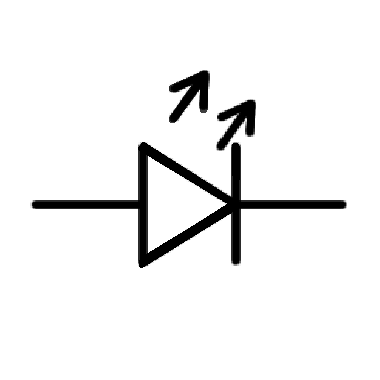
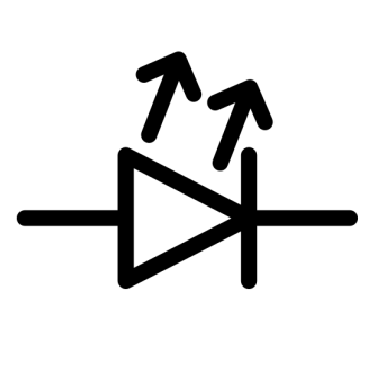
fotos

Changed region(s): [[0.0289, 0.1158, 0.9553, 0.7816]]

diff --git a/abas/Componentes/Componentes.html b/abas/Componentes/Componentes.html
@@ -52,7 +52,7 @@
 
                     <div class="division">
                         <button class="texto" id="diodo_Button" onclick="changePage()">Diodo</button>
-                        <h1 class="imagens"><img src="img/Imagens_Componentes/Diodo_Simbolo.png" alt=""></h1>
+                        <h1 class="imagens"><img src="img/Imagens_Componentes/diodo.png" alt=""></h1>
                         <video src="/videos/Shawn Mendes - Why Why Why (Official Music Video).mp4" controls class="video"></video>
                     </div>
                     
@@ -89,49 +89,57 @@
 
                     <div class="division">
                         <button class="texto" id="portaslogicas_Button" onclick="changePage()">Portas Lógicas</button>
-                        
+                        <h1 class="imagens"><img src="img/Imagens_Componentes/portas-logicas.png" alt=""></h1>
+
                         <video src="/videos/Shawn Mendes - Why Why Why (Official Music Video).mp4" controls class="video"></video>
                     </div>
 
                     <div class="division">
                         <button class="texto" id="zener_Button" onclick="changePage()">Diodo Zener</button>
-                        
+                        <h1 class="imagens"><img src="img/Imagens_Componentes/diodo-zener.png" alt=""></h1>
+
                         <video src="/videos/Shawn Mendes - Why Why Why (Official Music Video).mp4" controls class="video"></video>
                     </div>
 
                     <div class="division">
                         <button class="texto" id="PTC_Button" onclick="changePage()">PTC</button>
-                        
+                        <h1 class="imagens"><img src="img/Imagens_Componentes/PTC.png" alt=""></h1>
+
                         <video src="/videos/Shawn Mendes - Why Why Why (Official Music Video).mp4" controls class="video"></video>
                     </div>
 
                     <div class="division">
                         <button class="texto" id="NTC_Button" onclick="changePage()">NTC</button>
-                        
+                        <h1 class="imagens"><img src="img/Imagens_Componentes/NTC.png" alt=""></h1>
+
                         <video src="/videos/Shawn Mendes - Why Why Why (Official Music Video).mp4" controls class="video"></video>
                     </div>
 
                     <div class="division">
                         <button class="texto" id="LDR_Button" onclick="changePage()">LDR</button>
-                        
+                        <h1 class="imagens"><img src="img/Imagens_Componentes/LDR.png" alt=""></h1>
+
                         <video src="/videos/Shawn Mendes - Why Why Why (Official Music Video).mp4" controls class="video"></video>
                     </div>
 
                     <div class="division">
                         <button class="texto" id="TransistorTBJ" onclick="changePage()">Transistor TBJ</button>
-                        
+                        <h1 class="imagens"><img src="img/Imagens_Componentes/transistor.png" alt=""></h1>
+
                         <video src="/videos/Shawn Mendes - Why Why Why (Official Music Video).mp4" controls class="video"></video>
                     </div>
 
                     <div class="division">
                         <button class="texto" id="circuitosintegrados_Button" onclick="changePage()">Circuitos Integrados</button>
-                        
+                        <h1 class="imagens"><img src="img/Imagens_Componentes/CI.png" alt=""></h1>
+
                         <video src="/videos/Shawn Mendes - Why Why Why (Official Music Video).mp4" controls class="video"></video>
                     </div>
 
                     <div class="division">
                         <button class="texto" id="capacitor_Button" onclick="changePage()">Capacitor</button>
-                        
+                        <h1 class="imagens"><img src="img/Imagens_Componentes/capacitor.png" alt=""></h1>
+
                         <video src="/videos/Shawn Mendes - Why Why Why (Official Music Video).mp4" controls class="video"></video>
                     </div>
                 </section>
@@ -142,31 +150,36 @@
 
                     <div class="division">
                         <button class="texto" id="Relé" onclick="changePage()">Relé</button>
-                        
+                        <h1 class="imagens"><img src="img/Imagens_Componentes/rele.png" alt=""></h1>
+
                         <video src="/videos/Shawn Mendes - Why Why Why (Official Music Video).mp4" controls class="video"></video>
                     </div>
 
                     <div class="division">
                         <button class="texto" id="indutor_Button" onclick="changePage()">Indutor</button>
-                        
+                        <h1 class="imagens"><img src="img/Imagens_Componentes/indutor.png" alt=""></h1>
+
                         <video src="/videos/Shawn Mendes - Why Why Why (Official Music Video).mp4" controls class="video"></video>
                     </div>
                     
                     <div class="division">
                         <button class="texto" id="transformador_Button" onclick="changePage()">Transformador</button>
-                        
+                        <h1 class="imagens"><img src="img/Imagens_Componentes/transformador.png" alt=""></h1>
+
                         <video src="/videos/Shawn Mendes - Why Why Why (Official Music Video).mp4" controls class="video"></video>
                     </div>
 
                     <div class="division">
                         <button class="texto" id="Motores_Button" onclick="changePage()">Motores</button>
-                        
+                        <h1 class="imagens"><img src="img/Imagens_Componentes/motor.png" alt=""></h1>
+
                         <video src="/videos/Shawn Mendes - Why Why Why (Official Music Video).mp4" controls class="video"></video>
                     </div>
 
                     <div class="division">
                         <button class="texto" id="ampop_Button" onclick="changePage()">Amplificador Operacional</button>
-                        
+                        <h1 class="imagens"><img src="img/Imagens_Componentes/ampop.png" alt=""></h1>
+
                         <video src="/videos/Shawn Mendes - Why Why Why (Official Music Video).mp4" controls class="video"></video>
                     </div>
                 </section>

diff --git a/abas/Equipamentos/Equipamentos.html b/abas/Equipamentos/Equipamentos.html
@@ -27,19 +27,22 @@
                 <section class="categorias">
                     <div class="division">
                         <button class="texto" id="chaves_Button" onclick="changePage()">Chaves Phillips <br>e Fenda</button>
-                        
+                        <h1 class="imagens"><img src="img/Imagens_Equipamentos/Chaves.png" alt=""></h1>
+
                         <video src="videos/Shawn Mendes - Why Why Why (Official Music Video).mp4" controls class="video"></video>
 
                     </div>
 
                     <div class="division">
                         <button class="texto" id="alicates_Button" onclick="changePage()">Alicates de Bico <br> e de Corte</button>
+                        <h1 class="imagens"><img src="img/Imagens_Equipamentos/Alicates.png" alt=""></h1>
 
                         <video src="videos/Shawn Mendes - Why Why Why (Official Music Video).mp4" controls class="video"></video>
                     </div>
                     
                     <div class="division">
                         <button class="texto" id="pinca_Button" onclick="changePage()">Pinça</button>
+                        <h1 class="imagens"><img src="img/Imagens_Equipamentos/pincas.png" alt=""></h1>
 
                         <video src="videos/Shawn Mendes - Why Why Why (Official Music Video).mp4" controls class="video"></video>
 

diff --git a/abas/Componentes/Componentes.css b/abas/Componentes/Componentes.css
@@ -181,10 +181,8 @@ body,
     text-align: center; /* Alinha o texto ao centro dentro do elemento */
     font-size: 3em; /* Ajuste o tamanho da fonte conforme necessário */
     font-weight: bold;
-    margin: 10%;
     background-color: white;
     border-radius: 45px;
-    padding-top: 0.35%;
 }
 
 .basicos{
@@ -240,15 +238,9 @@ body,
     height: 50%;
     justify-content: space-evenly; /* Distribui o vídeo e o texto */
     align-items: center; /* Alinha verticalmente */
-    margin-bottom: 2%;
 
 }
 
-.division_size{
-    width: 70vw;
-    min-width: 70vw;
-    padding: 50em;
-}
 
 .page{
     display: none;

diff --git a/abas/Equipamentos/Equipamentos.css b/abas/Equipamentos/Equipamentos.css
@@ -156,3 +156,7 @@ body,
 .page.active{
     display: block;
 }
+
+.imagens{
+    transform: scale(0.5); /* Equal to scaleX(0.7) scaleY(0.7) */
+}
